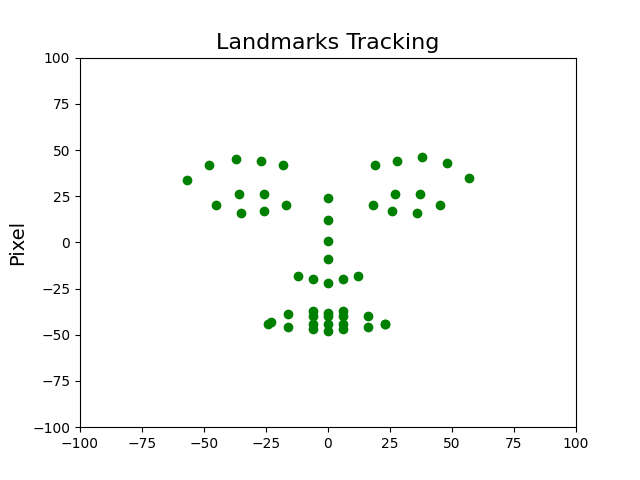
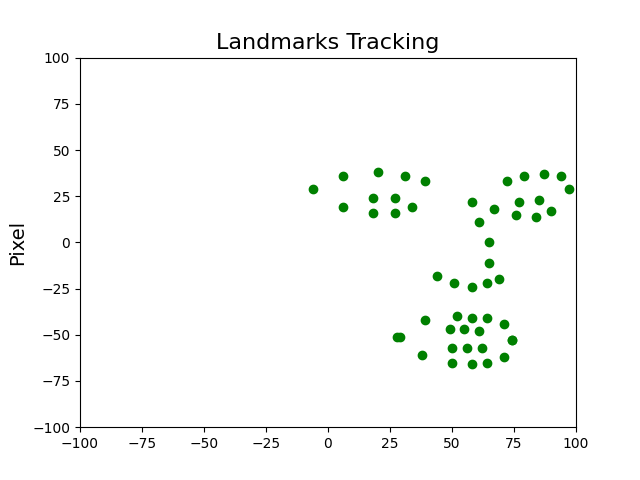
latest

diff --git a/landmark_detection_img.py b/landmark_detection_img.py
@@ -1,22 +1,37 @@
 #!/usr/bin/python
+from rsa import verify
 import numpy as np
 import cv2
 from skimage import io
 import helpers
 from matplotlib import pyplot as plt
 import face_alignment
+import argparse
+import os
 
 ######################################################
 ## Landmark detection with one image.               ##
 ## The result is saved as a PDF file.               ##
 ######################################################
 
+parser = argparse.ArgumentParser(description='extract keypoints from image')
+
+parser.add_argument('--source_path', default='./datasample/Amir.jpg', help='input sequence path')
+parser.add_argument('--out_dir', default='./results/', help='FLAME meshes output path')
+
+args = parser.parse_args()
+
 ######################## read image ################################
 # For one image
+path = args.source_path
+output_name = path.split('/')[-1].split('.jpg')[0].split('.png')[0]
+output_name = os.path.join(args.out_dir, output_name)
 
-NAME = 'test'
-# im = io.imread(f"./dataSample/{NAME}.jpg")
-im = io.imread('/root/mnt/share/Voxceleb/train/id10841#5h5NmY820_M#001845#001980.mp4/0000000.png')
+# NAME = 'Amir'
+# path = f"./dataSample/{NAME}.jpg"
+im = io.imread(path)
+
+# im = io.imread('/root/mnt/share/Voxceleb/train/id10841#5h5NmY820_M#001845#001980.mp4/0000000.png')
 H, W = im.shape[:2]
 # fa = face_alignment.FaceAlignment(face_alignment.LandmarksType._2D, flip_input=False)
 # bb = (0, 0, H - 1, W - 1)
@@ -24,10 +39,24 @@ H, W = im.shape[:2]
 # frame_landmarks = np.stack([frame_landmarks[:, 0].clip(0, H - 1), frame_landmarks[:, 1].clip(0, W - 1)], axis=1)
 # (vertices, mesh_plotting, Ind, rotation_angle) = helpers.landmarks_3d_fitting(frame_landmarks,height,width)
 
-(bb, coords) = helpers.get_landmarks(im)
-print(f'bb: {bb}')
-print(f'coords: {coords}')
-(vertices, mesh_plotting, Ind, rotation_angle, ) = helpers.landmarks_3d_fitting(coords, H, W)
+(bb, coords) = helpers.get_landmarks_fa(im)
+# print(f'bb: {bb}')
+# print(f'coords: {coords}')
+# (vertices, mesh_plotting, Ind, rotation_angle) = helpers.landmarks_3d_fitting(coords, H, W)
+
+vertices, a, Ind = helpers.normalize_mesh(coords, H, W)
+
+
+# vertices_rhs = np.load('../flame-fitting/output_landmark/fit_landmarks.npy') * 1000
+
+# print(f'coords: {vertices[-51:]}')/
+# print(f'coords_rhs: {vertices_rhs.astype(int)})')
+# print(f'coords diff: {vertices_rhs - vertices[-51:]}')
+
+# vertices[-51:] = vertices_rhs
+coords_3d = np.concatenate([vertices, np.ones((len(vertices), 1))], axis=1) @ a
+# print(f'final coords: {coords}')
+coords = coords_3d[:, :2].astype(int) + np.array([[W // 2, H // 2]])
 
 #np.savetxt('landmark_result_Yu.txt', coords)
 
@@ -40,8 +69,8 @@ for i in [0,16,36,43]:#np.arange(68):
 
 ######################## visualization #############################
 highlights = [16,36,43]
-outImg = helpers.visualize_facial_landmarks(im, bb, coords, 1,highlights)
-outImg_noBackground = helpers.visualize_facial_landmarks(im, bb, coords, 0,highlights)
+outImg = helpers.visualize_facial_landmarks(im, bb, coords, 1, highlights)
+outImg_noBackground = helpers.visualize_facial_landmarks(im, bb, coords, 0 ,highlights)
 
 plt.subplot(121), plt.imshow(outImg)
 plt.subplot(122), plt.imshow(outImg_noBackground)
@@ -53,6 +82,6 @@ plt.imshow(outImg1)
 
 plt.show()
 
-np.save(f'{NAME}_vertices.npy', vertices[Ind])
-np.save(f'{NAME}_pose.npy', mesh_plotting[Ind])
-fig.savefig(f'{NAME}_plot.png')
+np.save(f'{output_name}_vertices.npy', vertices)
+np.save(f'{output_name}_pose.npy', coords_3d)
+fig.savefig(f'{output_name}_plot.png')

diff --git a/helpers.py b/helpers.py
@@ -1,4 +1,4 @@
-import dlib
+# import dlib
 import numpy as np
 from collections import OrderedDict
 import cv2
@@ -186,6 +186,7 @@ def landmarks_3d_fitting(landmarks,image_height, image_width):
     #     Ind[i] = np.argmin(d)
     #     print(f'found id with d = {d[int(Ind[i])]}')
     rotation_angle = pose.get_rotation_euler_angles()
+    print(f'mesh: {mesh_3d_points}')
     return (vertices, mesh_3d_points, Ind, rotation_angle)
 
 def normalize_mesh(landmarks, image_height, image_width):
@@ -205,7 +206,9 @@ def normalize_mesh(landmarks, image_height, image_width):
                         [0, h2*(-1), 0, h2],
                         [0, 0, 0.5, 0.5],
                         [0, 0, 0, 1]])
-    a = multiplyABC(viewport, pose.get_projection() ,pose.get_modelview())
+    proj = pose.get_projection()
+    view = pose.get_modelview()
+    a = multiplyABC(viewport, proj, view)
 
     # print(f'a shape: {a}')
     # print(f'proj: {pose.get_projection()}')
@@ -226,7 +229,7 @@ def normalize_mesh(landmarks, image_height, image_width):
         841,  693,  411,  264,  431, 3253,  416,  423,  828,  821,  817,
         442,  404]).astype(int)
     # ibug2sfm = {'45': '605', '30': '272', '44': '624', '39': '191', '57': '693', '38': '172', '53': '825', '43': '614', '63': '423', '36': '537', '35': '2797', '27': '658', '34': '270', '33': '2794', '31': '114', '55': '812', '42': '174', '49': '398', '41': '173', '28': '2842', '18': '225', '46': '610', '48': '606', '52': '329', '59': '264', '60': '431', '51': '413', '50': '315', '54': '736', '62': '416', '47': '607', '58': '411', '64': '828', '68': '404', '56': '841', '29': '379', '40': '181', '25': '666', '22': '157', '9': '33', '67': '442', '24': '2091', '23': '590', '21': '2086', '20': '233', '32': '100', '26': '662', '37': '177', '66': '817', '19': '229'}
-    
+    # Ind = 
     # for (i, (x, y)) in enumerate(landmarks):
     #     # k = str(i + 1)
     #     # if k in ibug2sfm:
@@ -240,10 +243,14 @@ def normalize_mesh(landmarks, image_height, image_width):
     rotation_angle = pose.get_rotation_euler_angles()
 
     landmarks_3d = np.concatenate([landmarks - np.array([[w2, h2]]), mesh_3d_points[Ind, 2:]], axis=1)
-    normalized_landmarks_3d = landmarks_3d @ np.linalg.inv(a)
+    print(f'view port: {viewport}')
+    print(f'projection: {proj}')
+    print(f'view: {view}')
+    normalized_landmarks_3d = (((landmarks_3d @ np.linalg.inv(viewport.T))[:, :3] + np.array([[1, 1, 0]])) @ np.linalg.inv(proj[:3, :3].T) - np.ones((1, 3)) * view[:3, -1:].T) @ np.linalg.inv(view.T[:3, :3])
+    print(f'normed mesh: {mesh_3d_points}')
     # normalized_landmarks_3d = normalized_landmarks_3d[:, :3]
 
-    return normalized_landmarks_3d, a
+    return normalized_landmarks_3d, a, Ind
     
     
 def multiplyABC(A, B, C):

diff --git a/render_landmarks.py b/render_landmarks.py
@@ -1,0 +1,56 @@
+import numpy as np
+import cv2
+from matplotlib import pyplot as plt
+from matplotlib.backends.backend_agg import FigureCanvasAgg as FigureCanvas
+import matplotlib.gridspec as gridspec
+import time
+import os    
+import argparse
+from skimage import io
+import helpers
+
+parser = argparse.ArgumentParser(description='extract keypoints from image')
+
+parser.add_argument('--source_path', default='../voca/animation_output_vox_a_f/landmarks.npy', help='input sequence path')
+parser.add_argument('--out_path', default='./results/landmark_video.mp4', help='FLAME meshes output path')
+parser.add_argument('--background_path', default=None, help='FLAME meshes output path')
+parser.add_argument('--H', default=256, help='FLAME meshes output path')
+parser.add_argument('--W', default=256, help='FLAME meshes output path')
+parser.add_argument('--fps', default=25, help='FLAME meshes output path')
+# parser.add_argument('--W', default=256, help='FLAME meshes output path')
+
+args = parser.parse_args()
+
+######################## read image ################################
+# For one image
+path = args.source_path
+output_name = args.out_path
+fps = args.fps
+
+if args.background_path is not None:
+    bg = io.imread(args.background_path)
+    H, W = bg.shape[:2]
+    canvas = bg
+    use_bg = True
+else:
+    height = args.H 
+    width = args.W
+    canvas = np.zeros((height, width, 3)).astype(np.uint8)
+    use_bg = False
+landmarks = np.load(path) * 1000 # B x N x 3
+
+
+
+fourcc = cv2.VideoWriter_fourcc(*'mp4v') # create VideoWriter object
+# width, height = 256, 256
+out = cv2.VideoWriter(output_name, fourcc, fps, (width, height))
+    
+for i, lm in enumerate(landmarks):
+    ######################## visualization #############################
+    # plt.subplot(11)
+    # ax2 = plt.subplot(111)
+    # ax2.imshow(im2),ax2.set_title('Landmark Extraction on Raw Data', fontsize=16)
+    print(f'lm shape: {lm.shape}')
+    frame = helpers.visualize_facial_landmarks(canvas, (0, 0, height - 1, width - 1), lm[:, :2].astype(int) + np.array([[width // 2, height // 2]]))
+    out.write(frame)
+out.release()

diff --git a/landmark_plot.py b/landmark_plot.py
@@ -12,7 +12,7 @@ import face_alignment
 ######################################################
 
 frame_size = 256
-landmark_path = '../face_tracking/output_landmark/fit_landmarks.npy'
+landmark_path = '../flame-fitting/output_landmark/fit_landmarks.npy'
 landmark = np.load(landmark_path) * 1000
 
 
